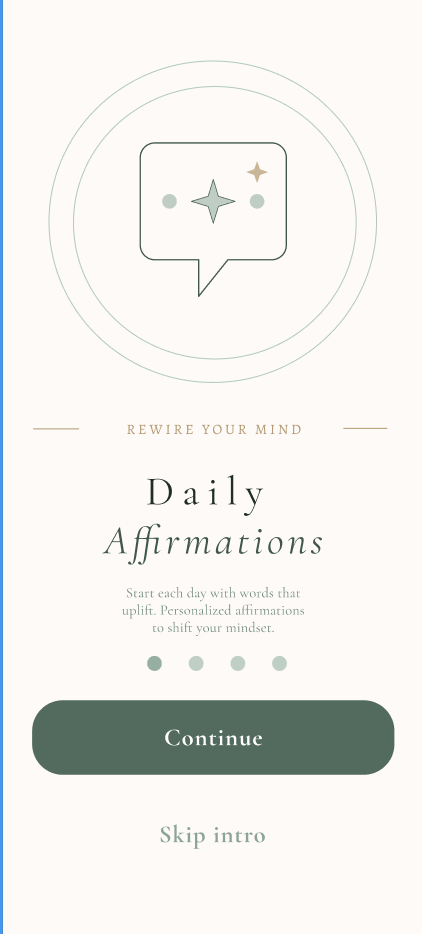
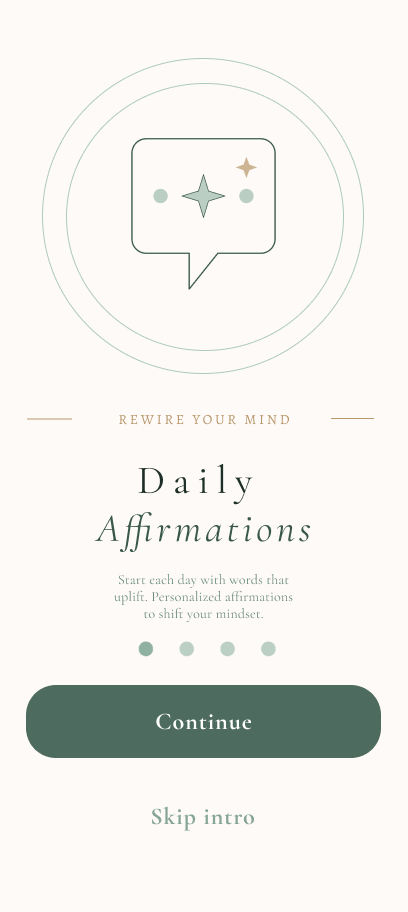
April 28, 2026

diff --git a/Progress Update.md b/Progress Update.md
@@ -860,3 +860,28 @@ Before filling in the SWE section cards, spent time auditing both GitHub reposit
 
 **Pinterest**
 - [ ] Change Pinterest board cover images
+
+## Session Update — April 28, 2026
+
+### ✅ Completed Today
+
+**Stay Positive — Screenshots Updated**
+- Replaced Welcome screenshot (sp-welcome.png) with new version
+- Replaced Daily Affirmations screenshot (sp-affirmations.png) with new version
+- Replaced Prayer & Devotion screenshot (sp-prayer.png) with new version
+- All phone mockups and scrollable screen gallery updated with new images
+
+---
+
+### ✅ Previously Completed (not logged)
+
+**Stay Positive — Podcast & Store**
+- Podcast & store section already live with Spotify, Apple Podcasts, YouTube links
+- Store button linking to https://staypositivestore.com/
+
+---
+
+### 🔜 To Do Next
+
+**Pinterest**
+- [ ] Change Pinterest board cover images
